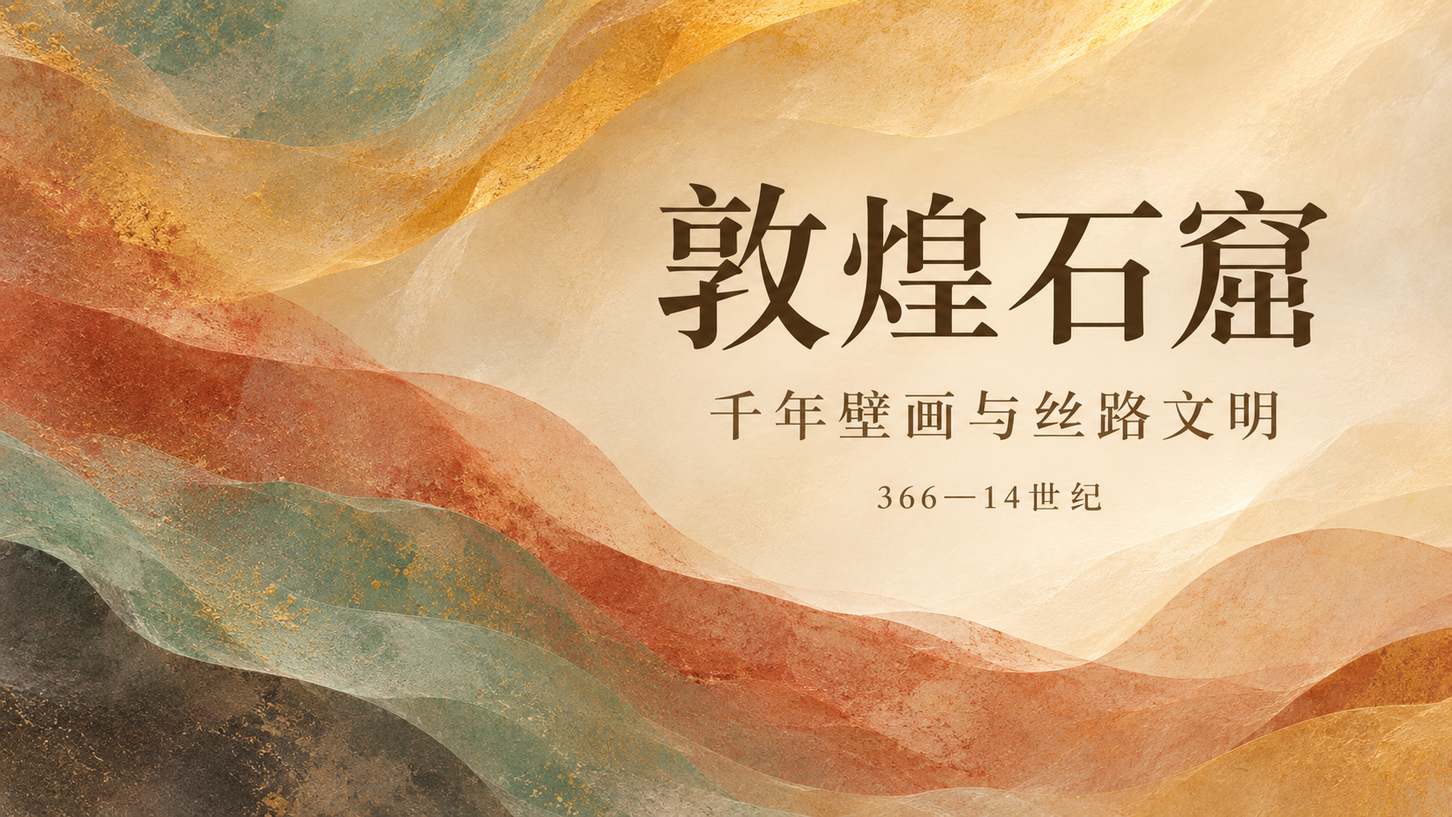
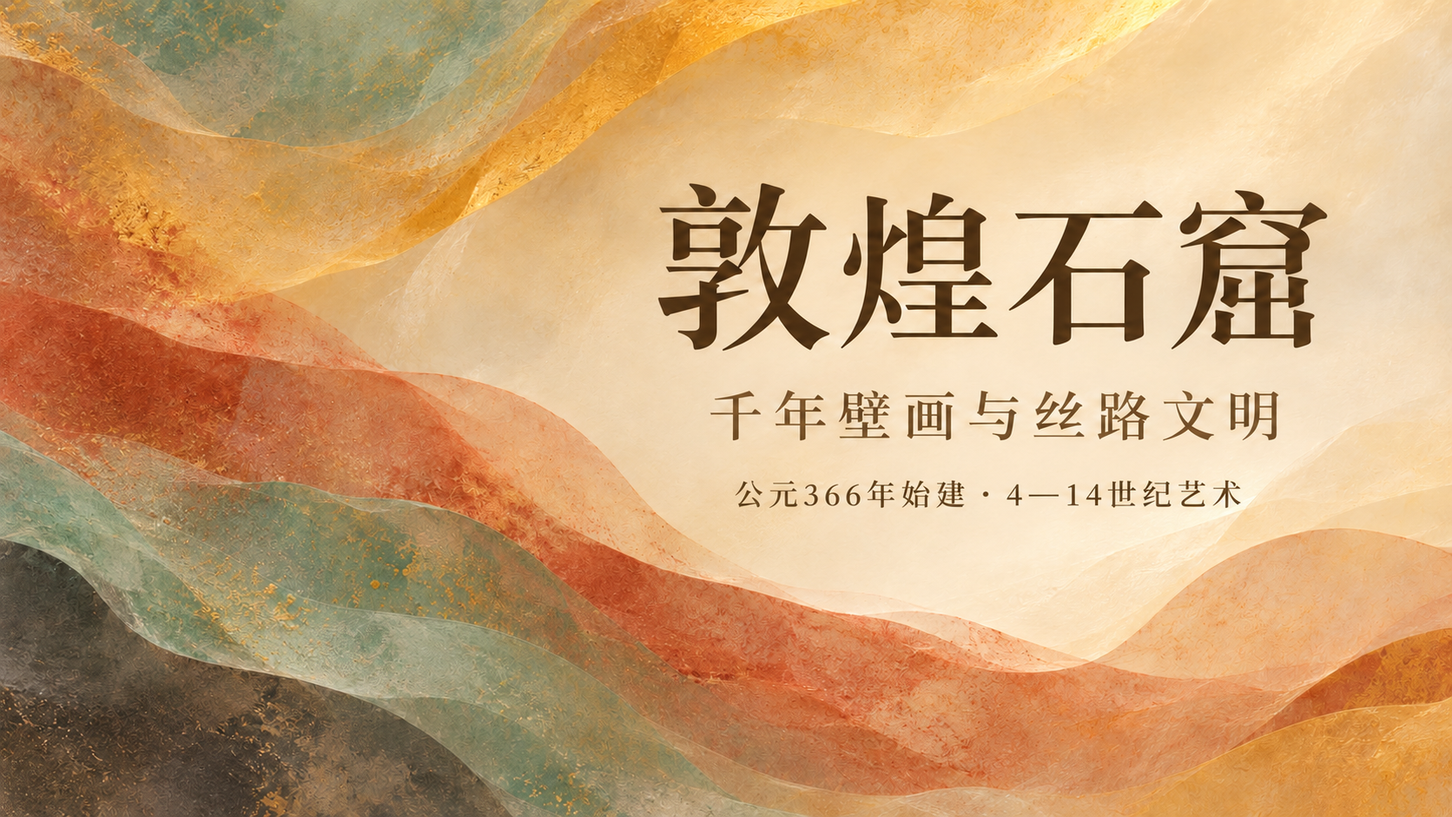
0.2.2：修订示例图并补充史实来源

diff --git a/KNOWN-ISSUES.md b/KNOWN-ISSUES.md
@@ -1,26 +1,6 @@
 # 已知问题
 
-下列示例图问题尚未修正。图内文字不可作为史料引用；生成演示文稿时请以可核查来源为准。欢迎在 Issues 中提供来源或修正。
+当前没有登记中的示例图问题（2026-11-26 修订）。示例图仍是 AI 生成的现代设计示意，不可作为史料引用；生成演示文稿时请以可核查来源为准。欢迎在 Issues 中提供来源或修正。
 
 | 图片 | 问题 |
 |---|---|
-| [`tang-timber-architecture/02-historical-timeline`](.agents/skills/tang-timber-architecture/assets/examples/02-historical-timeline.png) | 图内署名“来源：国家文物局公开资料”，本仓库没有对应来源记录 |
-| [`tang-timber-architecture/03-inscription-evidence`](.agents/skills/tang-timber-architecture/assets/examples/03-inscription-evidence.png) | 图内报告题名未据原始出版物核实 |
-| [`tang-timber-architecture/04-surviving-arts`](.agents/skills/tang-timber-architecture/assets/examples/04-surviving-arts.png) | 图内资料脚注没有对应来源记录 |
-| [`ruyao-blue-slide-design/02-history-locator`](.agents/skills/ruyao-blue-slide-design/assets/examples/02-history-locator.png) | 地图轮廓与点位为 AI 生成，准确性未核实，不可作为地图使用 |
-| [`ruyao-blue-slide-design/05-ending`](.agents/skills/ruyao-blue-slide-design/assets/examples/05-ending.png) | 与主参考图 `ruyao-blue-reference.png` 是同一图像 |
-| [`minnan-red-brick/02-history`](.agents/skills/minnan-red-brick/assets/examples/02-history.png) | “民”字形损坏；“正式起源”强于来源记录 |
-| [`jianzhan-yaobian/02-song-tea-culture`](.agents/skills/jianzhan-yaobian/assets/examples/02-song-tea-culture.png) | 标注引线缺少标签 |
-| [`ruyao-blue-slide-design/04-crackle-details`](.agents/skills/ruyao-blue-slide-design/assets/examples/04-crackle-details.png) | 蟹爪纹、支钉说法未记录来源 |
-| [`guan-ice-crackle/03-history-timeline`](.agents/skills/guan-ice-crackle/assets/examples/03-history-timeline.png) | 窑名（修内司、郊坛下）未记录来源 |
-| [`guan-ice-crackle/04-powder-celadon`](.agents/skills/guan-ice-crackle/assets/examples/04-powder-celadon.png) | 口足铁灰色成因未记录来源；小字偏小 |
-| [`huizhou-architecture/02-village-history`](.agents/skills/huizhou-architecture/assets/examples/02-village-history.png) | 年代范围与营建背景未记录来源 |
-| [`huizhou-architecture/04-three-carvings`](.agents/skills/huizhou-architecture/assets/examples/04-three-carvings.png) | “源于宋代”未记录来源 |
-| [`ming-forbidden-city/02-construction-timeline`](.agents/skills/ming-forbidden-city/assets/examples/02-construction-timeline.png) | 1421 年迁都未记录来源 |
-| [`ming-forbidden-city/05-ending`](.agents/skills/ming-forbidden-city/assets/examples/05-ending.png) | 1421 年迁都未记录来源 |
-| [`minnan-red-brick/04-space`](.agents/skills/minnan-red-brick/assets/examples/04-space.png) | 角部格纹装饰与“厚墙调湿”表述待复核 |
-| [`palace-caisson/02-layered-structure`](.agents/skills/palace-caisson/assets/examples/02-layered-structure.png) | 结构图为生成示意，非实测或馆方图纸 |
-| [`dunhuang-caves/01-cover`](.agents/skills/dunhuang-caves/assets/examples/01-cover.png) | “366—14世纪”表述混用年份与世纪 |
-| [`song-dougong/02-yingzao-fashi-timeline`](.agents/skills/song-dougong/assets/examples/02-yingzao-fashi-timeline.png) | “功限、料例”未记录来源 |
-| [`tiantan-qinian/02-history-timeline`](.agents/skills/tiantan-qinian/assets/examples/02-history-timeline.png) | “按原样重建”超出来源记录 |
-| [`junyao-kiln-transformation/04-kiln-story`](.agents/skills/junyao-kiln-transformation/assets/examples/04-kiln-story.png) | 窑变利用过程说法未记录来源 |

diff --git a/.agents/skills/ruyao-blue-slide-design/assets/README.md b/.agents/skills/ruyao-blue-slide-design/assets/README.md
@@ -6,20 +6,22 @@
 
 | 文件 | 用途 | 来源与状态 | 使用方式 |
 |---|---|---|---|
-| `ruyao-blue-reference.png` | 主参考图：观察汝青色层、釉面光泽、细开片、流动边缘及深蓝点缀 | `imagegen` 纯提示词生成（创作者声明）；与 `examples/05-ending.png` 为同一图像 | 调用时优先查看；只提取视觉语言，不复制书法和完整构图 |
+| `ruyao-blue-reference.png` | 主参考图：观察汝青色层、釉面光泽、细开片、流动边缘及深蓝点缀 | `imagegen` 纯提示词生成（创作者声明） | 调用时优先查看；只提取视觉语言，不复制书法和完整构图 |
 
 ## 已审核设计示例
 
-以下五张图是现代 PPT 页面设计预览，不是历史文物图像、考古证据或最终模板。五张均为 `imagegen` 生成；结束页与主参考图为同一图像。它们用于补充理解不同内容场景中的色彩、纹理、材质和视觉层级；不得复刻整页构图或文案。
+以下五张图是现代 PPT 页面设计预览，不是历史文物图像、考古证据或最终模板。五张均为 `imagegen` 生成。它们用于补充理解不同内容场景中的色彩、纹理、材质和视觉层级；不得复刻整页构图或文案。
 
 | 文件 | 页面角色 | 示例内容 | 适用观察点 |
 |---|---|---|---|
 | `examples/01-cover.png` | 封面 | 标题封面 | 天青渐层、流动釉光、深蓝标题对比 |
-| `examples/02-history-locator.png` | 内容页 | 窑址定位信息页 | 内容驱动的信息层级、纹理背景与示意图配合 |
+| `examples/02-history-locator.png` | 内容页 | 窑址定位信息页 | 内容驱动的信息层级、纹理背景与地点层级关系 |
 | `examples/03-glaze-tones.png` | 内容页 | 釉色层次说明页 | 天青色阶、通透感、自然光泽和细开片 |
 | `examples/04-crackle-details.png` | 内容页 | 开片与支烧痕迹说明页 | 细开片特写、标注线与深蓝信息区 |
-| `examples/05-ending.png` | 结束页 | 结束页示例 | 以收束构图呈现天青釉光 |
+| `examples/05-ending.png` | 结束页 | 结束页示例 | 以偏置文字与深蓝流釉边缘收束，构图区别于主参考图 |
 
 按任务选取相关示例即可，不必每次读取全部图片。无论参考哪张图，页面比例、版式、组件及信息密度都应服从实际输入内容。
 
 **素材状态：** AI 生成（纯文本提示词、无参考图，据创作者声明），按 CC BY 4.0 发布，目录状态 `cleared`。该授权状态不代表图内文字已经史实核实；见仓库根目录 `KNOWN-ISSUES.md`。
+
+**修订记录（2026-11-26）：** `assets/examples/02-history-locator.png`、`assets/examples/05-ending.png` 以本仓库原有图片为输入，经 `imagegen` 修订文字或画面元素，因此上述“无参考图”声明不适用于这些修订版本。

diff --git a/README.md b/README.md
@@ -14,7 +14,7 @@
   <a href="https://github.com/Jacky0111/zhonghua-guofeng-ppt-skills/stargazers"><img src="https://img.shields.io/github/stars/Jacky0111/zhonghua-guofeng-ppt-skills?style=for-the-badge&color=8C2A22" alt="GitHub Stars"></a>
 </p>
 
-<p align="center">作者：Jacky0111 · 版本 <code>0.2.1</code>（<a href="CHANGELOG.md">更新记录</a>）</p>
+<p align="center">作者：Jacky0111 · 版本 <code>0.2.2</code>（<a href="CHANGELOG.md">更新记录</a>）</p>
 
 从中国陶瓷、古典建筑与石窟艺术中提炼色彩、材质、纹理、光泽与空间秩序，转译为内容驱动的现代演示设计。本库包含 13 个风格 Skill 与 1 个新风格导入工作流。
 
@@ -50,19 +50,19 @@
 
 | 稳定 ID | 风格 | 分类 | 版本 |
 |---|---|---|---|
-| `ruyao-blue-slide-design` | 汝窑天青 | 陶瓷 / 汝窑 | `2.7.0` |
-| `guan-ice-crackle` | 官窑冰裂 | 陶瓷 / 官窑 | `0.2.1` |
-| `junyao-kiln-transformation` | 钧窑窑变 | 陶瓷 / 钧窑 | `0.2.1` |
-| `jianzhan-yaobian` | 建盏曜变 | 陶瓷 / 建窑 | `2.1.0` |
+| `ruyao-blue-slide-design` | 汝窑天青 | 陶瓷 / 汝窑 | `2.7.1` |
+| `guan-ice-crackle` | 官窑冰裂 | 陶瓷 / 官窑 | `0.2.2` |
+| `junyao-kiln-transformation` | 钧窑窑变 | 陶瓷 / 钧窑 | `0.2.2` |
+| `jianzhan-yaobian` | 建盏曜变 | 陶瓷 / 建窑 | `2.1.1` |
 | `qianlong-enamel` | 乾隆珐琅彩 | 陶瓷 / 乾隆珐琅彩 | `0.2.1` |
-| `ming-forbidden-city` | 明代故宫 | 建筑 / 宫殿 / 明代 | `2.5.0` |
-| `tiantan-qinian` | 天坛祈年 | 建筑 / 礼制 / 天坛 | `2.1.0` |
-| `palace-caisson` | 宫廷藻井 | 建筑 / 宫殿 / 藻井 | `0.2.1` |
-| `tang-timber-architecture` | 唐代木构 | 建筑 / 木构 / 唐代 | `2.2.0` |
-| `song-dougong` | 宋式斗拱 | 建筑 / 木构 / 宋代 | `0.2.1` |
-| `huizhou-architecture` | 徽派建筑 | 建筑 / 地域 / 徽州 | `0.2.1` |
-| `dunhuang-caves` | 敦煌石窟 | 美术 / 壁画 / 敦煌 | `0.2.1` |
-| `minnan-red-brick` | 闽南红砖 | 建筑 / 地域 / 闽南 | `0.2.1` |
+| `ming-forbidden-city` | 明代故宫 | 建筑 / 宫殿 / 明代 | `2.5.1` |
+| `tiantan-qinian` | 天坛祈年 | 建筑 / 礼制 / 天坛 | `2.1.1` |
+| `palace-caisson` | 宫廷藻井 | 建筑 / 宫殿 / 藻井 | `0.2.2` |
+| `tang-timber-architecture` | 唐代木构 | 建筑 / 木构 / 唐代 | `2.2.1` |
+| `song-dougong` | 宋式斗拱 | 建筑 / 木构 / 宋代 | `0.2.2` |
+| `huizhou-architecture` | 徽派建筑 | 建筑 / 地域 / 徽州 | `0.2.2` |
+| `dunhuang-caves` | 敦煌石窟 | 美术 / 壁画 / 敦煌 | `0.2.2` |
+| `minnan-red-brick` | 闽南红砖 | 建筑 / 地域 / 闽南 | `0.2.2` |
 
 工作流：`chinese-style-skill-workflow`（调查、设计方案、五页预览、人工审核、双语实施）。
 

diff --git a/.agents/skills/tang-timber-architecture/references/sources.md b/.agents/skills/tang-timber-architecture/references/sources.md
@@ -11,8 +11,17 @@
 - **已核实事实：** 上述资料将南禅寺大殿记为 782 年、佛光寺东大殿记为 857 年；佛光寺东大殿的题记、经幢与近代调查史属于该建筑的具体研究材料。
 - **现代设计转译：** 深木色、朱红、土黄/暖白的色彩比例，以及木纹流向、横向延伸、承托叠层和斜向光影，均为现代演示设计语言，不是对唐代木料、颜料或建筑原貌的测色与复原。
 - **适用范围：** “唐代木构”涵盖多个地域、类型、营造传统及后世修缮层次。使用具体史实、构造或遗存时，应标明建筑对象和来源，不把佛光寺、南禅寺的特点当作整个唐代的通则。
-- **图像中的文字限制：** `assets/examples/02-historical-timeline.png` 的图内来源脚注未核验具体网页；`03-inscription-evidence.png` 的报告题名未以原始出版物核实。两处文字属于生成式视觉示例内容，不是规范参考书目。正式演示若需引用，应改用可核查的出版物题名与来源。
+- **图像文字修订（2026-11-26）：** 原示例图中无法核实的来源脚注与书目题名已删除，超出来源的建造年代、壁画与题记表述已改写。梁思成关于佛光寺的论著见《中国营造学社汇刊》第七卷，引用时请核对原刊。
 
 ## 设计使用原则
 
 以材料层次、空间秩序、横纵节奏和承托关系组织页面；除非输入内容需要讨论某座建筑或构件，不直接把殿堂、屋顶、斗拱或榫卯特写作为装饰。结构意象应进入信息层级和组件关系，而不是变成反复出现的建筑示意图。
+
+## 示例页文字来源（2026-11-26 核查）
+
+以下页面经联网抓取工具读取；新闻与转载内容的证据强度低于馆藏或学术原文，正式引用前请自行复核。
+
+- [《建筑史学刊》（澎湃号转载）：南禅寺大殿研究](https://www.thepaper.cn/newsDetail_forward_18883877) — 学界认定 782 年重建，为现存最早唐代木构。
+- [山西省文旅厅澎湃号转载：梁思成、林徽因《记五台山佛光寺的建筑》](https://m.thepaper.cn/newsDetail_forward_10143234) — 梁下题名的佛殿主宁公遇亦见于经幢，结合大中十一年（857）纪年推定殿建于此时；彩塑原有色泽因后代重妆已失。
+- [光明网：《佛光寺》](https://news.gmw.cn/2020-08/01/content_34048512.htm) — 题记与宁公遇、经幢线索。
+- [国家文物局：佛光寺相关资讯](http://www.ncha.gov.cn/art/2026/8/23/art_722_204477.html) — 殿内保存唐代彩塑、壁画和墨书题记。

diff --git a/.agents/skills/tang-timber-architecture/assets/README.md b/.agents/skills/tang-timber-architecture/assets/README.md
@@ -6,10 +6,12 @@
 |---|---|---|---|
 | `examples/01-cover.png` | 封面；唐代木构与营造秩序 | `imagegen` 生成；用户确认 | 参考深木色走势、暖白阅读空间及不对称层次，不固定标题位置 |
 | `examples/02-historical-timeline.png` | 内容页；782 年南禅寺大殿、857 年佛光寺东大殿 | `imagegen` 生成；用户确认 | 年代对照仅是该内容的组织选择，不固定为时间轴 |
-| `examples/03-inscription-evidence.png` | 内容页；梁架题记、经幢与调查线索 | `imagegen` 生成；用户确认 | 图内报告题名未据原始出版物核实，不可直接作为书目引用；只提取证据叙事和木纹、朱红走势 |
+| `examples/03-inscription-evidence.png` | 内容页；梁架题记、经幢与调查线索 | `imagegen` 生成；用户确认 | 只提取证据叙事和木纹、朱红走势；史实以来源文件为准 |
 | `examples/04-surviving-arts.png` | 内容页；佛光寺东大殿的木构、彩塑、壁画和题记 | `imagegen` 生成；用户确认 | 佛光寺个案不可泛化；错位分组是本页选择，不是固定组件 |
 | `examples/05-ending.png` | 结束页；782、857、1937 年线索回望 | `imagegen` 生成；用户确认 | 参考深木纹与暖光收束，不复制文案或构图 |
 
 设计时按需读取示例，不需要默认逐张读取。提取深木色、朱红、土黄/暖白的关系，木纹密度、横向舒展、叠层承托与光影气质。将这些线索根据实际页面用途重新组合；避免仿旧纸张、木纹满铺造成阅读干扰，也不要只用平涂颜色替代完整设计语言。
 
-**素材状态：** AI 生成（纯文本提示词、无参考图，据创作者声明），按 CC BY 4.0 发布，目录状态 `cleared`。该授权状态不代表图内文字已经史实核实；见仓库根目录 `KNOWN-ISSUES.md`。 第二页图内来源文字和第三页报告题名未在本 Skill 中作为已核实书目依据；涉及史实请以 `references/sources.md` 的可追溯来源为准。
+**素材状态：** AI 生成（纯文本提示词、无参考图，据创作者声明），按 CC BY 4.0 发布，目录状态 `cleared`。该授权状态不代表图内文字已经史实核实；见仓库根目录 `KNOWN-ISSUES.md`。
+
+**修订记录（2026-11-26）：** `assets/examples/02-historical-timeline.png`、`assets/examples/03-inscription-evidence.png`、`assets/examples/04-surviving-arts.png` 以本仓库原有图片为输入，经 `imagegen` 修订文字或画面元素，因此上述“无参考图”声明不适用于这些修订版本。

diff --git a/.agents/skills/tiantan-qinian/references/sources.md b/.agents/skills/tiantan-qinian/references/sources.md
@@ -14,9 +14,15 @@
 ## 来源
 
 1. [北京市文物局：天坛](https://wwj.beijing.gov.cn/bjww/wwjzzcslm/1737418/1738088/1742735/364353/index.html) — 历史沿革与建筑信息。
-2. [北京市文物局：《中国传统礼制性建筑上的门》天坛章节（PDF）](https://wwj.beijing.gov.cn/bjww/resource/cms/article/362762/515628/2018052316192538218.pdf) — 天坛礼制建筑背景。
-3. [北京市公园管理中心：天坛的主体建筑——祈年殿](https://gygl.beijing.gov.cn/whgy/whgy_wsgc/201912/t20191206_885633.html) — 祈年殿沿革、用途与形制。
-4. [北京市公园管理中心：祈年殿](https://gygl.beijing.gov.cn/mlgy/mlgy_gyjg01/201912/t20191211_1048233.html) — 建筑与礼仪介绍。
-5. [联合国教科文组织：Temple of Heaven: an Imperial Sacrificial Altar in Beijing](https://whc.unesco.org/en/list/881/) — 天坛整体遗产价值与天地观念。
+2. [北京市公园管理中心：天坛的主体建筑——祈年殿](https://gygl.beijing.gov.cn/whgy/whgy_wsgc/201912/t20191206_885633.html) — 祈年殿沿革、用途与形制。
+3. [北京市公园管理中心：祈年殿](https://gygl.beijing.gov.cn/mlgy/mlgy_gyjg01/201912/t20191211_1048233.html) — 建筑与礼仪介绍。
+4. [联合国教科文组织：Temple of Heaven: an Imperial Sacrificial Altar in Beijing](https://whc.unesco.org/en/list/881/) — 天坛整体遗产价值与天地观念。
 
 具体年份与历史主张以这些机构资料为依据；视觉示例仅是现代设计示意，不作为历史证据。
+
+## 示例页文字来源（2026-11-26 核查）
+
+以下页面经联网抓取工具读取；新闻与转载内容的证据强度低于馆藏或学术原文，正式引用前请自行复核。
+
+- [北京市人民政府网站：《趣说北京》天坛篇](https://www.beijing.gov.cn/shipin/qushuobeijing/19513.html) — 1889 年焚毁，次年下旨重建；重建殿宇与原殿略有差别。
+- [新京报：《天坛祈年殿：北京曾经的最高建筑》](https://m.bjnews.com.cn/detail/163029107414385.html) — 书籍节选：次年重建，光绪二十二年（1896）完工。

diff --git a/.agents/skills/guan-ice-crackle/references/sources.md b/.agents/skills/guan-ice-crackle/references/sources.md
@@ -15,3 +15,13 @@
 - [故宫博物院：官窑青釉圆洗](https://www.dpm.org.cn/collection/ceramic/226749.html)
 - [故宫博物院：官窑粉青釉弦纹瓶](https://www.dpm.org.cn/collection/ceramic/226843.html)
 - [故宫博物院：《宋代官窑导读》](https://www.dpm.org.cn/journal_detail/112135.html)
+
+## 示例页文字来源（2026-11-26 核查）
+
+以下页面经联网抓取工具读取；新闻与转载内容的证据强度低于馆藏或学术原文，正式引用前请自行复核。
+
+- [故宫博物院：《宋代官窑》](https://www.dpm.org.cn/lemmas/242620.html) — 修内司官窑与郊坛下官窑两处窑名。
+- [台北故宫博物院：南宋官窑展览专页](https://theme.npm.edu.tw/exh104/Celadons/ch/page-3.html) — 南宋仿旧制设窑及两处窑名；考古窑址与文献名称的对应仍用推测语气。
+- [河南博物院：杜正贤《解密南宋官窑》讲座预告](https://www.chnmus.net/sitesources/hnsbwy/page_pc/ppjy/zygxjt/articleeace65adba3d4224830fddff71a9feb6.html) — 南宋沿袭旧京制度在临安设官窑。
+- [南京市博物馆：官窑盘](https://njmuseumadmin.com/en/Antique/antishow/id/151) — 以粉青为主，兼有青灰、米黄等色；域名是否官方待复核。
+- [故宫博物院：《紫口铁足》](https://www.dpm.org.cn/lemmas/239378.html) — 与胎土含铁量高及口、足两处还原程度不同有关。

diff --git a/NOTICE.md b/NOTICE.md
@@ -5,7 +5,7 @@
 | `install.sh`、`tooling/` | MIT（见 `LICENSE`） |
 | `.agents/skills/`、`catalog/`、`assets/`、根目录文档 | CC BY 4.0（见 `LICENSE-CONTENT.md`） |
 
-- 示例图片由 AI（ChatGPT / `gpt-image`）根据文本提示词生成，创作者声明未输入参考图。部分法域可能不对纯 AI 生成内容提供著作权保护；本项目仅在创作者实际拥有权利的范围内授权。
+- 示例图片由 AI（ChatGPT / `gpt-image`）根据文本提示词生成，初版创作者声明未输入参考图；2026-11-26 修订的部分图片以本仓库原图为输入，清单见各 Skill 的 `assets/README.md`。部分法域可能不对纯 AI 生成内容提供著作权保护；本项目仅在创作者实际拥有权利的范围内授权。
 - `assets/banner.png` 由 AI 辅助编写的程序绘制，未使用外部图片或图像生成模型；配色近似参考各风格封面示例图，文字以 macOS 系统字体（宋体）栅格化。
 - 图片是现代设计示意，不是历史照片、文物图像、测绘、地图或史料。图内文字、年代、来源署名未经全部核实，请勿引用；见 `KNOWN-ISSUES.md`。
 - `references/sources.md` 中链接指向的第三方资料归各自权利人所有，不在本许可范围内。图内或文中提及的机构与本项目无隶属或背书关系。

diff --git a/.agents/skills/huizhou-architecture/references/sources.md b/.agents/skills/huizhou-architecture/references/sources.md
@@ -16,3 +16,11 @@
 ## 使用原则
 
 让空间关系和材质进入整页信息系统，而不是作为独立屋顶插画。用户内容若讨论具体建筑、天井或三雕，可有目的地呈现相关对象并标明出处；否则优先抽象表达体量、层次、边界、光影和留白。示例图片不作为史料，也不得用来推断历史事实。
+
+## 示例页文字来源（2026-11-26 核查）
+
+以下页面经联网抓取工具读取；新闻与转载内容的证据强度低于馆藏或学术原文，正式引用前请自行复核。
+
+- [国家文物局：《皖南古村落——西递、宏村》](http://www.ncha.gov.cn/art/2024/8/8/art_2791_190651.html) — 保存 14—20 世纪乡村风貌；返乡官员与商人营建；以家族为单位聚居及山水田园环境。年代范围不是始建年代。
+- [新华网：《画里宏村为何总能安如山》](http://www.news.cn/local/20240809/a23ed0945ddf48cd86cd4f6cb3079dc2/c.html) — 新闻报道，补充街巷与水系；水圳细节限于宏村。
+- [中国非物质文化遗产网：《闪耀绚丽光彩的徽州三雕》](https://www.ihchina.cn/news_1_details/10947.html) — 转载报道称起源于宋、明清极盛；名录中婺源一支另上溯唐代。

diff --git a/.agents/skills/song-dougong/references/sources.md b/.agents/skills/song-dougong/references/sources.md
@@ -14,3 +14,9 @@
 - **设计推断：** 把承托、过渡、联络、层递、尺度关系映射为版面层级、组件连接、视觉节奏和材质层次，是现代设计转译，不是历史文献对幻灯片构图的规定。
 - **现代设计选择：** 木褐、青灰、米白为本 Skill 的视觉调色方向，不代表宋代斗拱或宋代建筑存在唯一、普遍适用的色彩方案；纹理、光影和空间效果也是当代表达。
 - **未知与边界：** 宋代建筑因地区、功能、等级、年代及后世修缮而异；单一文献或单座建筑不能代表所有宋式斗拱。引用具体构造和实例时需补充针对性来源，不应根据生成示例推断历史尺寸或原貌。
+
+## 示例页文字来源（2026-11-26 核查）
+
+以下页面经联网抓取工具读取；新闻与转载内容的证据强度低于馆藏或学术原文，正式引用前请自行复核。
+
+- [故宫博物院：《营造法式》](https://www.dpm.org.cn/ancient/mingqing/149329.html) — 全书内容包括总释总例、各作制度、功限、料例、图样；李诫奉敕重修。

diff --git a/.agents/skills/minnan-red-brick/references/sources.md b/.agents/skills/minnan-red-brick/references/sources.md
@@ -16,3 +16,10 @@
 ## 设计使用原则
 
 将砖土肌理、错缝/交错关系、燕尾脊曲线、红砖与石材的边界及空间光影融入页面背景、信息区、图表和组件。除非输入内容需要讨论具体建筑或构件，不直接展示完整古厝、墙体、屋顶或具象传统纹样；避免把独立砖块、材料标注和构件插图误当作整页设计语言。
+
+## 示例页文字来源（2026-11-26 核查）
+
+以下页面经联网抓取工具读取；新闻与转载内容的证据强度低于馆藏或学术原文，正式引用前请自行复核。
+
+- [人民日报：《闽南古厝的“清凉秘籍”》（2025-07-23）](https://paper.people.com.cn/rmrb/pc/content/202507/23/content_30089812.html) — 受访学者称红砖孔隙能吸湿，厅堂向天井敞开利于通风；属具体案例与专家解释。
+- [福建日报：《闽南红砖古厝处处藏着智慧彩蛋》](https://www.fjdaily.com/app/content/2026-02/02/content_3772914.html) — 天井是采光与通风的核心。

diff --git a/CHANGELOG.md b/CHANGELOG.md
@@ -2,6 +2,15 @@
 
 版本号遵循 [语义化版本](https://semver.org/lang/zh-CN/)。0.x 阶段的接口仍可能变化。中英文仓库版本一致。
 
+## [0.2.2] - 2026-11-26
+
+### 修正
+
+- 处理 `KNOWN-ISSUES.md` 全部 20 项：修订 15 张示例图，其余补充来源记录。
+- 改写超出来源的表述（官窑、钧窑、徽派村落、闽南院落、天坛重建、佛光寺）；删除无法核实的图内脚注与书目题名。
+- 汝窑窑址页移除地图，并新增独立结束页；移除天坛失效来源链接。
+- 版本：`ruyao-blue-slide-design` `2.7.1`、`guan-ice-crackle` `0.2.2`、`junyao-kiln-transformation` `0.2.2`、`jianzhan-yaobian` `2.1.1`、`ming-forbidden-city` `2.5.1`、`tiantan-qinian` `2.1.1`、`palace-caisson` `0.2.2`、`tang-timber-architecture` `2.2.1`、`song-dougong` `0.2.2`、`huizhou-architecture` `0.2.2`、`dunhuang-caves` `0.2.2`、`minnan-red-brick` `0.2.2`。
+
 ## [0.2.1] - 2026-11-26
 
 ### 变更
